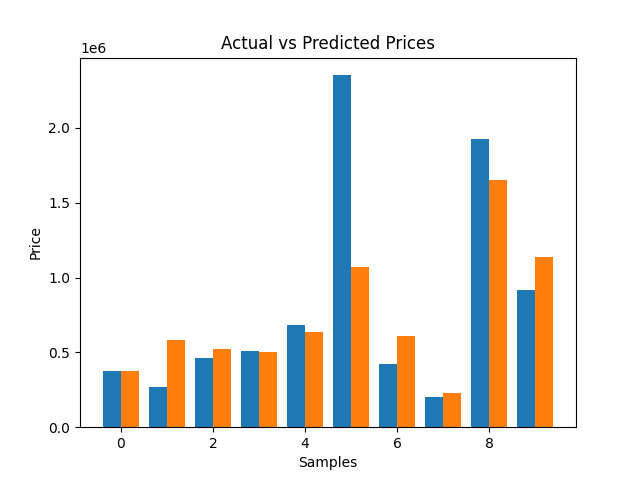
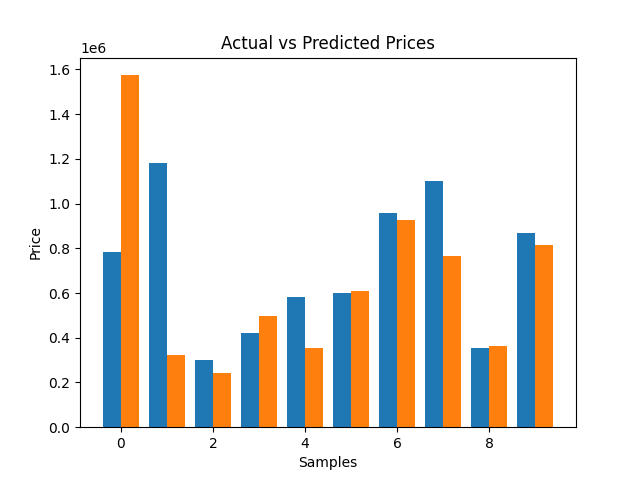
Initial commit

diff --git a/house_price_prediction.py b/house_price_prediction.py
@@ -7,9 +7,10 @@ from sklearn.tree import DecisionTreeRegressor
 import matplotlib.pyplot as plt
 import numpy as np
 import joblib
+from sklearn.metrics import mean_absolute_error, mean_squared_error, r2_score
 
 def load_data(file_path):
-    # Load dataset
+    # Load datasetxl
     try:
         df = pd.read_csv(r"C:\Users\ANAND\PycharmProjects\PythonProject5\data.csv")
         df = df.rename(columns={"price": "PRICE"})
@@ -61,10 +62,42 @@ def train_models(X_train, y_train):
 #     return score
 
 def evaluate_model(model, X_test, y_test):
+    # score = model.score(X_test, y_test)
+    # y_pred = model.predict(X_test)
+    #
+    # print("R-squared Score:", score)
+    #
+    # actual = y_test[:10]
+    # predicted = y_pred[:10]
+    #
+    # for a, p in zip(actual, predicted):
+    #     print(f"Actual: {a} | Predicted: {p}")
+    #
+    # x = np.arange(len(actual))
+    #
+    # plt.bar(x-0.2, actual, width=0.4, label="Actual")
+    # plt.bar(x+0.2, predicted, width=0.4, label="Predicted")
+    #
+    # plt.xlabel("Test Samples")
+    # plt.ylabel("Price")
+    # plt.title("Actual vs Predicted Prices")
+    # plt.legend()
+    # plt.show()
+    # return score, actual, predicted
     score = model.score(X_test, y_test)
     y_pred = model.predict(X_test)
 
     print("R-squared Score:", score)
+
+    # ---- Error Calculations (Added) ----
+    mae = mean_absolute_error(y_test, y_pred)
+    mse = mean_squared_error(y_test, y_pred)
+    rmse = np.sqrt(mse)
+
+    print("Mean Absolute Error (MAE):", mae)
+    print("Mean Squared Error (MSE):", mse)
+    print("Root Mean Squared Error (RMSE):", rmse)
+    # -----------------------------------
 
     actual = y_test[:10]
     predicted = y_pred[:10]
@@ -74,15 +107,27 @@ def evaluate_model(model, X_test, y_test):
 
     x = np.arange(len(actual))
 
-    plt.bar(x-0.2, actual, width=0.4, label="Actual")
-    plt.bar(x+0.2, predicted, width=0.4, label="Predicted")
+    plt.bar(x - 0.2, actual, width=0.4, label="Actual")
+    plt.bar(x + 0.2, predicted, width=0.4, label="Predicted")
 
     plt.xlabel("Test Samples")
     plt.ylabel("Price")
     plt.title("Actual vs Predicted Prices")
     plt.legend()
     plt.show()
-    return score, actual, predicted
+    residuals = y_test - y_pred
+
+    plt.scatter(y_pred, residuals)
+
+    plt.axhline(y=0, linestyle='--')
+
+    plt.xlabel("Predicted Price")
+    plt.ylabel("Residuals (Actual - Predicted)")
+    plt.title("Residual Plot")
+
+    plt.show()
+
+    return score, actual, predicted,mae, mse, rmse
 
 
 
@@ -107,15 +152,20 @@ def main():
         # # Print score
         # print(f'R-squared Score: {score:.2f}')
         models = train_models(X_train, y_train)
-
+        mae_results = {}
+        mse_results = {}
+        rmse_results = {}
         results = {}
         for name, model in models.items():
             print("\n==========================")
             print("Model:", name)
 
-            score, actual, predicted = evaluate_model(model, X_test, y_test)
+            score, actual, predicted,mae, mse, rmse = evaluate_model(model, X_test, y_test)
 
             results[name] = score
+            mae_results[name] = mae
+            mse_results[name] = mse
+            rmse_results[name] = rmse
 
             # Print comparison
         print("\nModel Comparison")
@@ -129,6 +179,22 @@ def main():
         plt.ylabel("R-Squared Score")
         plt.title("Model Performance Comparison")
 
+        plt.show()
+        # Error Comparison Graph
+        models_list = list(mae_results.keys())
+        x = np.arange(len(models_list))
+
+        plt.bar(x - 0.2, list(mae_results.values()), width=0.2, label="MAE")
+        plt.bar(x, list(mse_results.values()), width=0.2, label="MSE")
+        plt.bar(x + 0.2, list(rmse_results.values()), width=0.2, label="RMSE")
+
+        plt.xticks(x, models_list)
+
+        plt.xlabel("Models")
+        plt.ylabel("Error Values")
+        plt.title("Error Comparison of Models")
+
+        plt.legend()
         plt.show()
         best_model_name = max(results, key=results.get)
         best_model = models[best_model_name]
